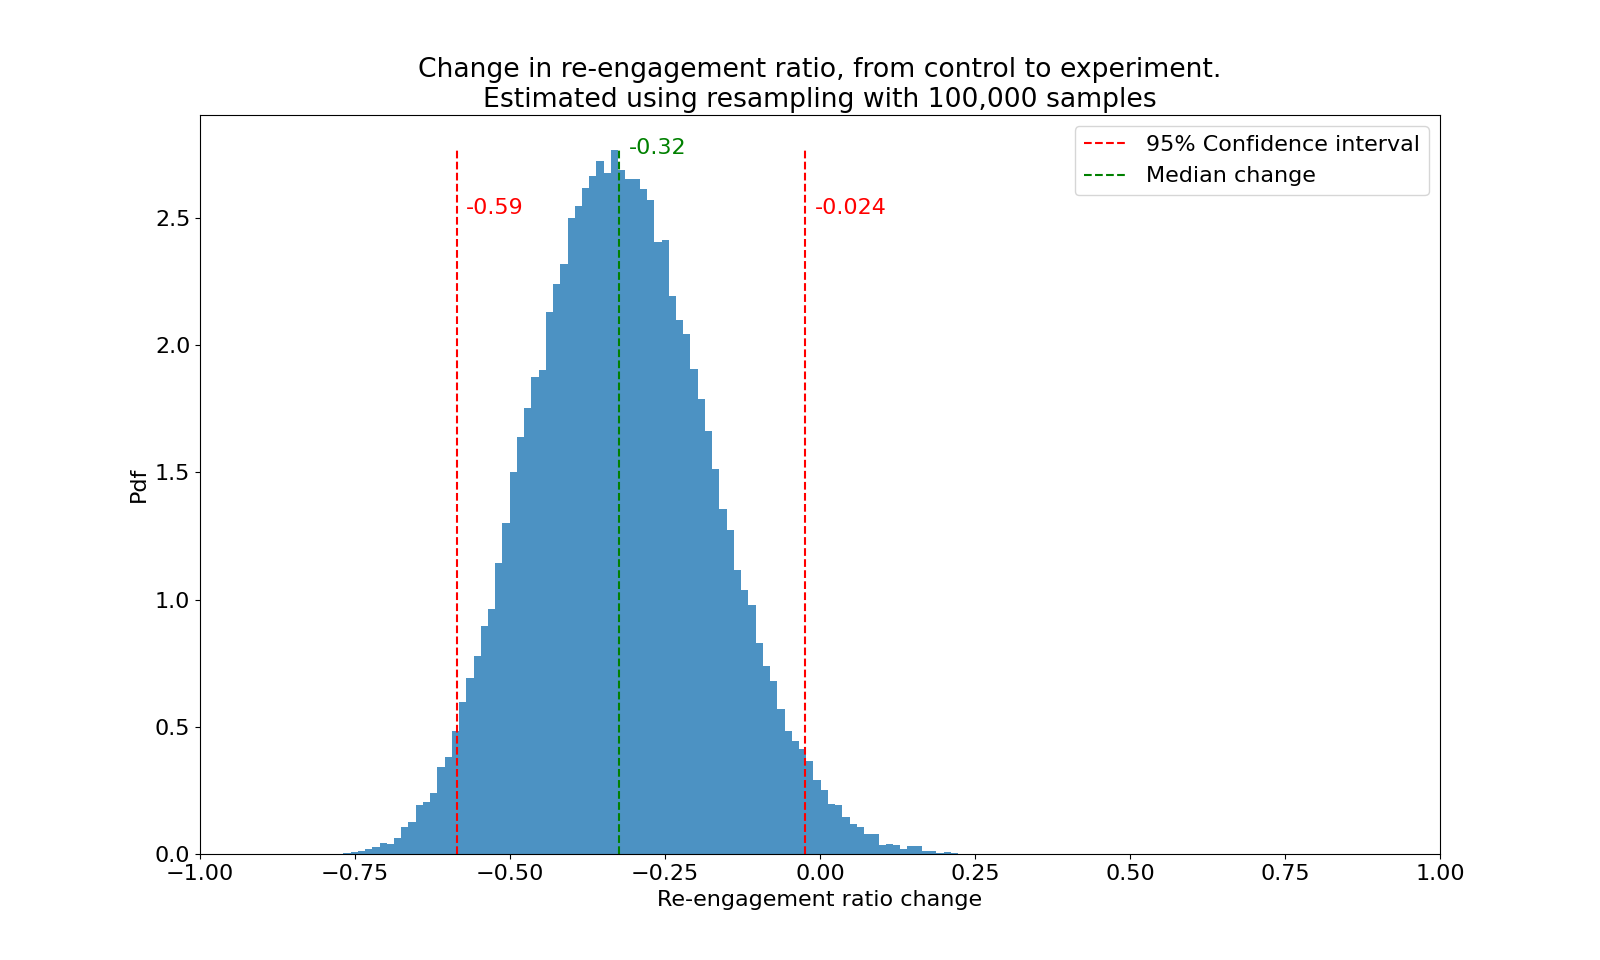
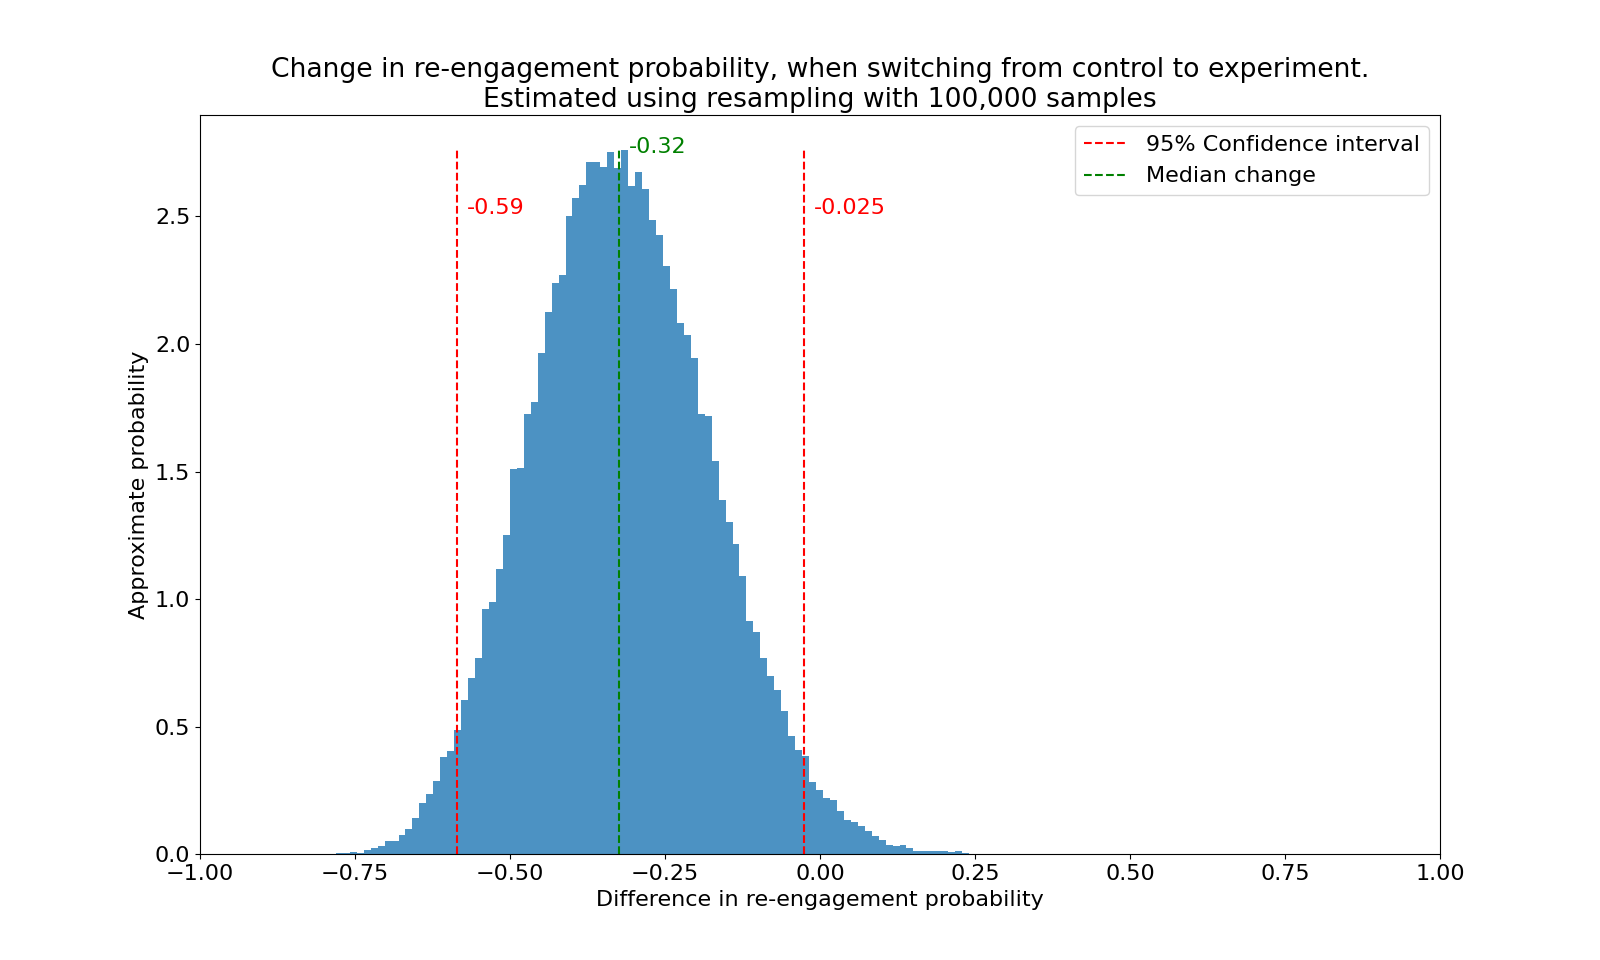
Change naming in the re-engagement ratio plots

diff --git a/analysis/re_engagement_ci.py b/analysis/re_engagement_ci.py
@@ -42,20 +42,20 @@ ax.plot((dist_first.ppf(0.975), dist_first.ppf(0.975)), (0.0, 4.0), color="b", l
 ax.plot((dist_second.ppf(0.025), dist_second.ppf(0.025)), (0.0, 4.0), color="r", linestyle="--", label="95% confidence interval")
 ax.plot((dist_second.ppf(0.975), dist_second.ppf(0.975)), (0.0, 4.0), color="r", linestyle="--")
 
-ax.set_title("Re-engagement ratios (Beta-distribution)")
-ax.set_xlabel("Re-engagement ratio")
-ax.set_ylabel("Pdf")
+ax.set_title("Likelihood of re-engagement probability (Beta-distribution)")
+ax.set_xlabel("Probability of re-engagement")
+ax.set_ylabel("Probability")
 
 ax.legend()
 
-fig.savefig(op.join(CUR_DIR, "Re-engagement-beta.png"))
+fig.savefig(op.join(CUR_DIR, "Re-engagement-betas.png"))
 plt.close(fig=fig)
 
 compared = resample_compare([dist_second, dist_first], n_samples=100_000)
 
 fig, ax = plt.subplots(1, 1, figsize=(16, 9.6))
 
-ax.set_title("Change in re-engagement ratio, from control to experiment.\nEstimated using resampling with 100,000 samples")
+ax.set_title("Change in re-engagement probability, when switching from control to experiment.\nEstimated using resampling with 100,000 samples")
 
 ax.set_xlim((-1, 1))
 n, bins, patches = ax.hist(compared, 100, density=True, alpha=0.8)
@@ -73,8 +73,8 @@ ax.text(compared[lower_idx] + 0.015, max_y - 0.25, "{:.2}".format(compared[lower
 ax.text(compared[upper_idx] + 0.015, max_y - 0.25, "{:.2}".format(compared[upper_idx]), color="r")
 ax.text(compared[int(len(compared)/2)] + 0.015, 2.75, "{:.2}".format(compared[int(len(compared)/2)]), color="g")
 
-ax.set_xlabel("Re-engagement ratio change")
-ax.set_ylabel("Pdf")
+ax.set_xlabel("Difference in re-engagement probability")
+ax.set_ylabel("Approximate probability")
 
 ax.legend()
 
